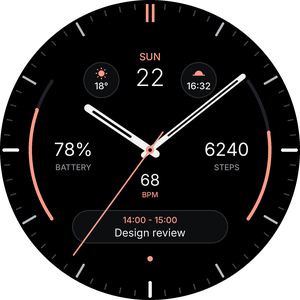
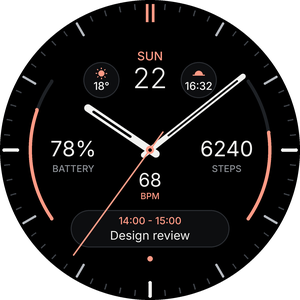
Increase text sizes by ~20% for readability on device
Claude-Session: https://claude.ai/code/session_0153GkUJgMbFYegMctzmUYaE

diff --git a/tools/generate.py b/tools/generate.py
@@ -286,9 +286,9 @@ def build_xml() -> str:
 
     # ---- Info -----------------------------------------------------------------
     x.comment("Date (top)")
-    text_part(x, "weekday", 145, 74, 160, 22, 15, ACCENT, template=("%s", ["[DAY_OF_WEEK_S]"]),
+    text_part(x, "weekday", 145, 72, 160, 24, 18, ACCENT, template=("%s", ["[DAY_OF_WEEK_S]"]),
               weight="MEDIUM", upper=True, ambient_alpha=200)
-    text_part(x, "day", 145, 94, 160, 44, 36, WHITE, template=("%d", ["[DAY]"]),
+    text_part(x, "day", 145, 94, 160, 46, 42, WHITE, template=("%d", ["[DAY]"]),
               weight="LIGHT", ambient_alpha=200)
 
     x.open("Group", name="health", x=0, y=0, width=SIZE, height=SIZE, alpha=255)
@@ -300,19 +300,19 @@ def build_xml() -> str:
     x.raw('<Expression name="charging">[BATTERY_CHARGING_STATUS]</Expression>')
     x.close("Expressions")
     x.open("Compare", expression="charging")
-    text_part(x, "battery_label_chg", 58, 242, 104, 18, 12, ACCENT, content="CHARGING", weight="MEDIUM")
+    text_part(x, "battery_label_chg", 50, 244, 120, 18, 14, ACCENT, content="CHARGING", weight="MEDIUM")
     x.close("Compare")
     x.open("Default")
-    text_part(x, "battery_label", 58, 242, 104, 18, 12, GREY, content="BATTERY", weight="MEDIUM")
+    text_part(x, "battery_label", 50, 244, 120, 18, 14, GREY, content="BATTERY", weight="MEDIUM")
     x.close("Default")
     x.close("Condition")
-    text_part(x, "battery_value", 58, 206, 104, 36, 27, WHITE,
+    text_part(x, "battery_value", 50, 204, 120, 38, 32, WHITE,
               template=("%d%%", ["[BATTERY_PERCENT]"]), weight="NORMAL")
 
     x.comment("Steps (right)")
-    text_part(x, "steps_value", 288, 206, 104, 36, 27, WHITE,
+    text_part(x, "steps_value", 280, 204, 120, 38, 32, WHITE,
               template=("%d", ["[STEP_COUNT]"]), weight="NORMAL")
-    text_part(x, "steps_label", 288, 242, 104, 18, 12, GREY, content="STEPS", weight="MEDIUM")
+    text_part(x, "steps_label", 280, 244, 120, 18, 14, GREY, content="STEPS", weight="MEDIUM")
 
     x.comment("Heart rate (lower centre); shows a dash placeholder until a reading is available")
     x.open("Condition")
@@ -320,19 +320,19 @@ def build_xml() -> str:
     x.raw('<Expression name="hr">[HEART_RATE] &gt; 0</Expression>')
     x.close("Expressions")
     x.open("Compare", expression="hr")
-    text_part(x, "hr_value", 165, 254, 120, 32, 24, WHITE,
+    text_part(x, "hr_value", 165, 254, 120, 32, 28, WHITE,
               template=("%d", ["[HEART_RATE]"]), weight="NORMAL")
     x.close("Compare")
     x.open("Default")
-    text_part(x, "hr_value_none", 165, 254, 120, 32, 24, DIM, content="--", weight="NORMAL")
+    text_part(x, "hr_value_none", 165, 254, 120, 32, 28, DIM, content="--", weight="NORMAL")
     x.close("Default")
     x.close("Condition")
-    text_part(x, "hr_label", 165, 284, 120, 16, 11, ACCENT, content="BPM", weight="MEDIUM")
+    text_part(x, "hr_label", 165, 286, 120, 16, 13, ACCENT, content="BPM", weight="MEDIUM")
     x.close("Group")
 
     # ---- Next event complication -------------------------------------------
     x.comment("Bottom: next calendar event (user can pick any SHORT_TEXT / LONG_TEXT provider)")
-    cw, ch = 236, 52
+    cw, ch = 240, 58
     cx, cy = C - cw / 2, 314
     x.open("ComplicationSlot", slotId=0, name="next_event", displayName="@string/slot_bottom",
            x=cx, y=cy, width=cw, height=ch, supportedTypes="LONG_TEXT SHORT_TEXT EMPTY",
@@ -353,16 +353,16 @@ def build_xml() -> str:
 
     x.open("Complication", type="LONG_TEXT")
     pill()
-    text_part(x, "event_time", 18, 7, cw - 36, 18, 13, ACCENT, template=("%s", ["[COMPLICATION.TITLE]"]),
+    text_part(x, "event_time", 18, 7, cw - 36, 20, 15, ACCENT, template=("%s", ["[COMPLICATION.TITLE]"]),
               weight="MEDIUM")
-    text_part(x, "event_title", 18, 24, cw - 36, 22, 16, WHITE, template=("%s", ["[COMPLICATION.TEXT]"]))
+    text_part(x, "event_title", 18, 27, cw - 36, 24, 18, WHITE, template=("%s", ["[COMPLICATION.TEXT]"]))
     x.close("Complication")
 
     x.open("Complication", type="SHORT_TEXT")
     pill()
-    text_part(x, "short_title", 18, 7, cw - 36, 18, 13, ACCENT, template=("%s", ["[COMPLICATION.TITLE]"]),
+    text_part(x, "short_title", 18, 7, cw - 36, 20, 15, ACCENT, template=("%s", ["[COMPLICATION.TITLE]"]),
               weight="MEDIUM")
-    text_part(x, "short_text", 18, 24, cw - 36, 22, 16, WHITE, template=("%s", ["[COMPLICATION.TEXT]"]))
+    text_part(x, "short_text", 18, 27, cw - 36, 24, 18, WHITE, template=("%s", ["[COMPLICATION.TEXT]"]))
     x.close("Complication")
 
     x.open("Complication", type="EMPTY")
@@ -403,7 +403,7 @@ def build_xml() -> str:
         x.open("Complication", type="SHORT_TEXT")
         disc()
         icon(D / 2 - 9, 9, 18)
-        text_part(x, "value", 4, 27, D - 8, 20, 14, WHITE,
+        text_part(x, "value", 3, 27, D - 6, 20, 16, WHITE,
                   template=("%s", ["[COMPLICATION.TEXT]"]), weight="MEDIUM")
         x.close("Complication")
 
@@ -423,7 +423,7 @@ def build_xml() -> str:
                      " / max([COMPLICATION.RANGED_VALUE_MAX] - [COMPLICATION.RANGED_VALUE_MIN], 1), 0, 1)")
         x.close("Arc")
         x.close("PartDraw")
-        text_part(x, "value", 6, D / 2 - 10, D - 12, 20, 14, WHITE,
+        text_part(x, "value", 6, D / 2 - 10, D - 12, 20, 16, WHITE,
                   template=("%s", ["[COMPLICATION.TEXT]"]), weight="MEDIUM")
         x.close("Complication")
 
@@ -575,19 +575,19 @@ def render_preview(path: pathlib.Path, theme_idx=0, ambient=False, scale_out=1.0
              col(LOW if data["batt"] <= 15 else acc))
         arcp(STEP_END - STEP_SPAN * min(data["step_pct"], 100) / 100, STEP_END, col(acc))
 
-        text(f'{data["batt"]}%', (58, 206, 104, 36), 27, col(WHITE))
-        text("BATTERY", (58, 242, 104, 18), 12, col(GREY), "Medium")
-        text(str(data["steps"]), (288, 206, 104, 36), 27, col(WHITE))
-        text("STEPS", (288, 242, 104, 18), 12, col(GREY), "Medium")
-        text(str(data["hr"]), (165, 254, 120, 32), 24, col(WHITE))
-        text("BPM", (165, 284, 120, 16), 11, col(acc), "Medium")
+        text(f'{data["batt"]}%', (50, 204, 120, 38), 32, col(WHITE))
+        text("BATTERY", (50, 244, 120, 18), 14, col(GREY), "Medium")
+        text(str(data["steps"]), (280, 204, 120, 38), 32, col(WHITE))
+        text("STEPS", (280, 244, 120, 18), 14, col(GREY), "Medium")
+        text(str(data["hr"]), (165, 254, 120, 32), 28, col(WHITE))
+        text("BPM", (165, 286, 120, 16), 13, col(acc), "Medium")
 
     da = 200 / 255 if ambient else 1
-    text(data["weekday"], (145, 74, 160, 22), 15, col(acc, da), "Medium")
-    text(str(data["day"]), (145, 94, 160, 44), 36, col(WHITE, da), "Light")
+    text(data["weekday"], (145, 72, 160, 24), 18, col(acc, da), "Medium")
+    text(str(data["day"]), (145, 94, 160, 46), 42, col(WHITE, da), "Light")
 
     # complication
-    cw, ch = 236, 52
+    cw, ch = 240, 58
     cx, cy = C - cw / 2, 314
     ca = 170 / 255 if ambient else 1
     layer = Image.new("RGBA", img.size, (0, 0, 0, 0))
@@ -596,8 +596,8 @@ def render_preview(path: pathlib.Path, theme_idx=0, ambient=False, scale_out=1.0
                          fill=col("#FF0D0E10", ca), outline=col("#FF2A2D32", ca), width=int(1.5 * S))
     img.alpha_composite(layer)
     d = ImageDraw.Draw(img)
-    text(data["ev_time"], (cx + 18, cy + 7, cw - 36, 18), 13, col(acc, ca), "Medium")
-    text(data["ev_title"], (cx + 18, cy + 24, cw - 36, 22), 16, col(WHITE, ca))
+    text(data["ev_time"], (cx + 18, cy + 7, cw - 36, 20), 15, col(acc, ca), "Medium")
+    text(data["ev_title"], (cx + 18, cy + 27, cw - 36, 24), 18, col(WHITE, ca))
 
     # small circular slots
     if not ambient:
@@ -624,7 +624,7 @@ def render_preview(path: pathlib.Path, theme_idx=0, ambient=False, scale_out=1.0
                 d.pieslice([P(ix - 6), P(iy - 4), P(ix + 6), P(iy + 8)], 180, 360, fill=a)
                 d.line([P(ix - 9), P(iy + 2.5), P(ix + 9), P(iy + 2.5)], fill=a, width=int(1.6 * S))
             if val:
-                text(val, (cxp - R + 4, cyp - R + 27, SUB_D - 8, 20), 14, col(WHITE), "Medium")
+                text(val, (cxp - R + 3, cyp - R + 27, SUB_D - 6, 20), 16, col(WHITE), "Medium")
 
     # unread notification dot
     if data.get("unread", 0) > 0:
